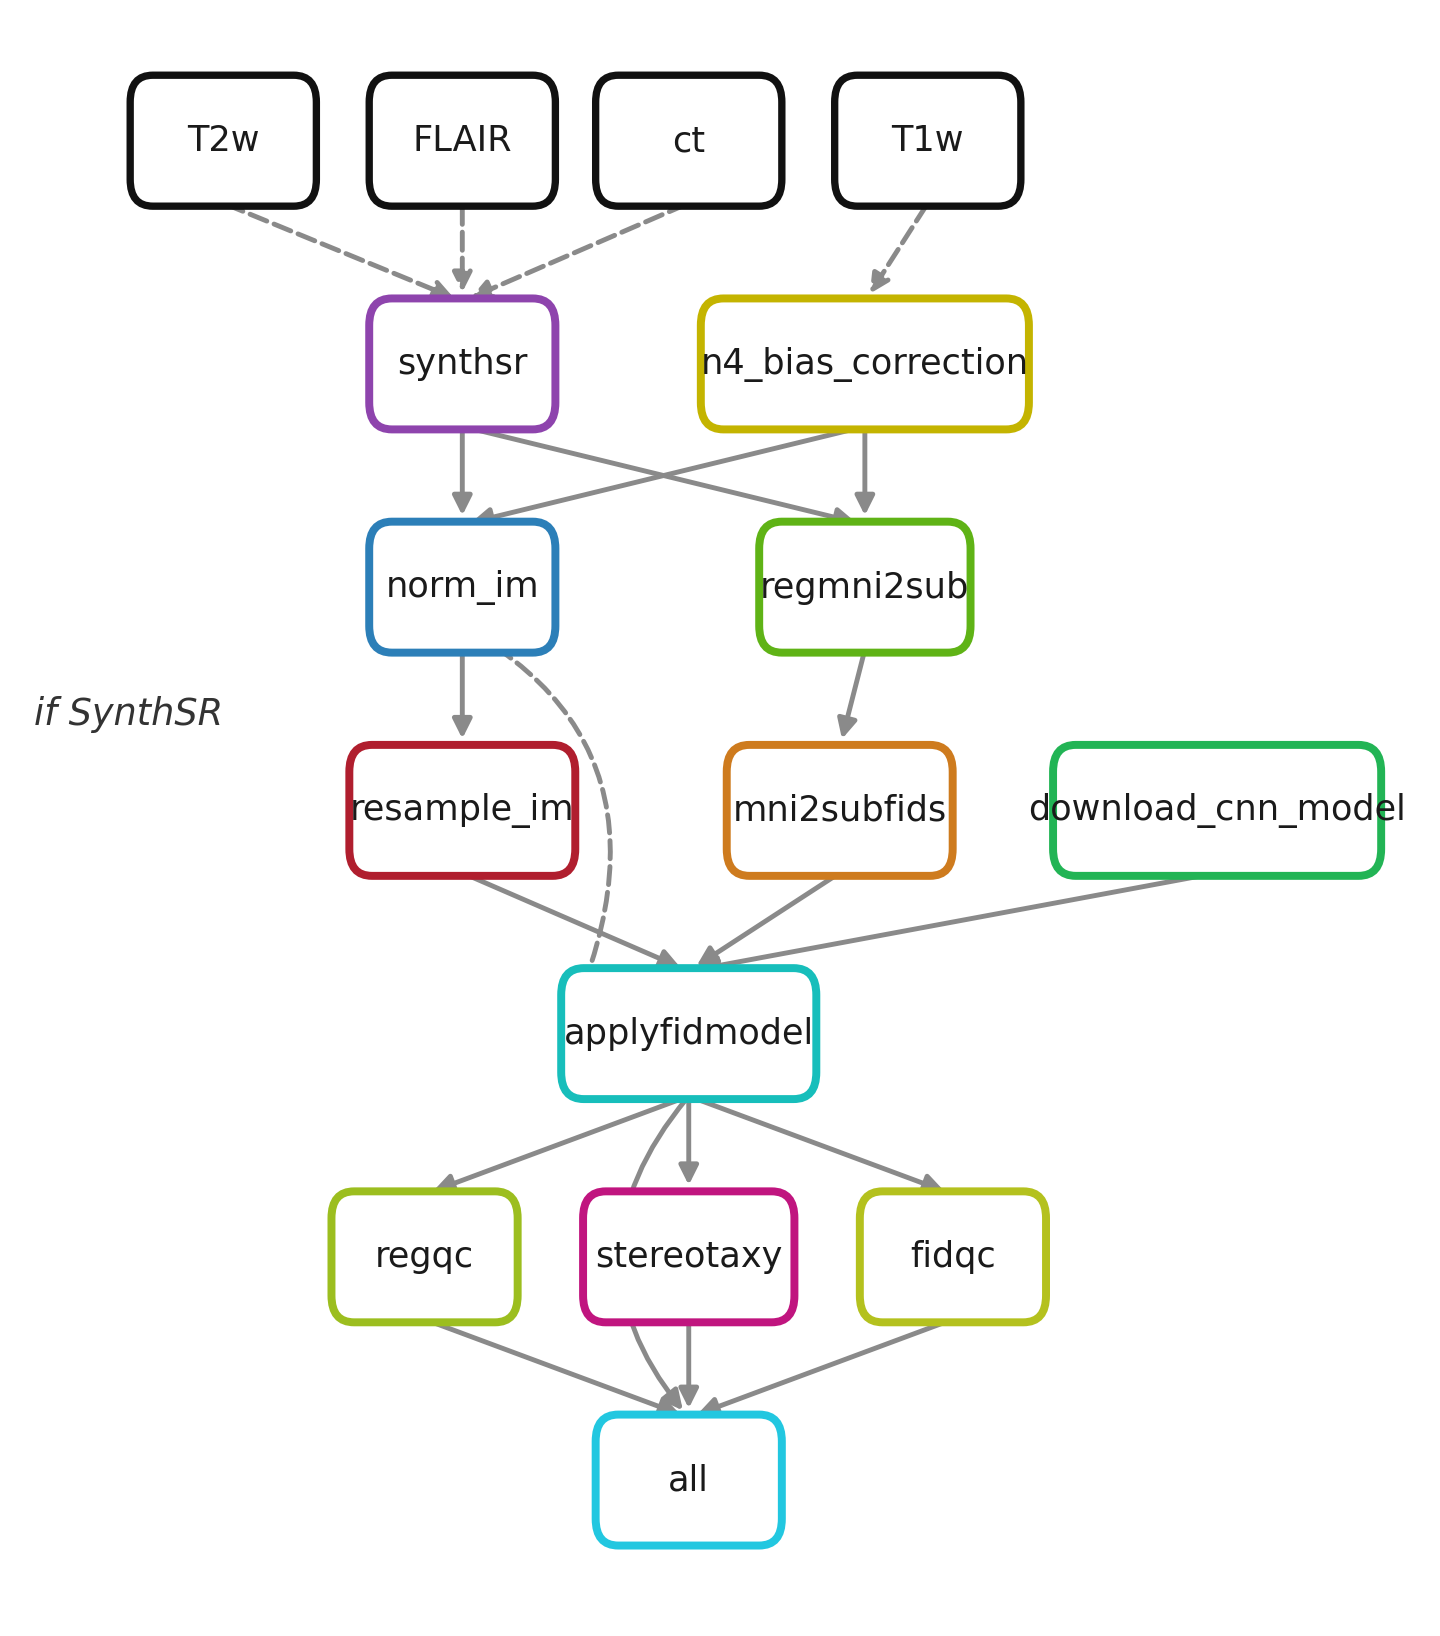
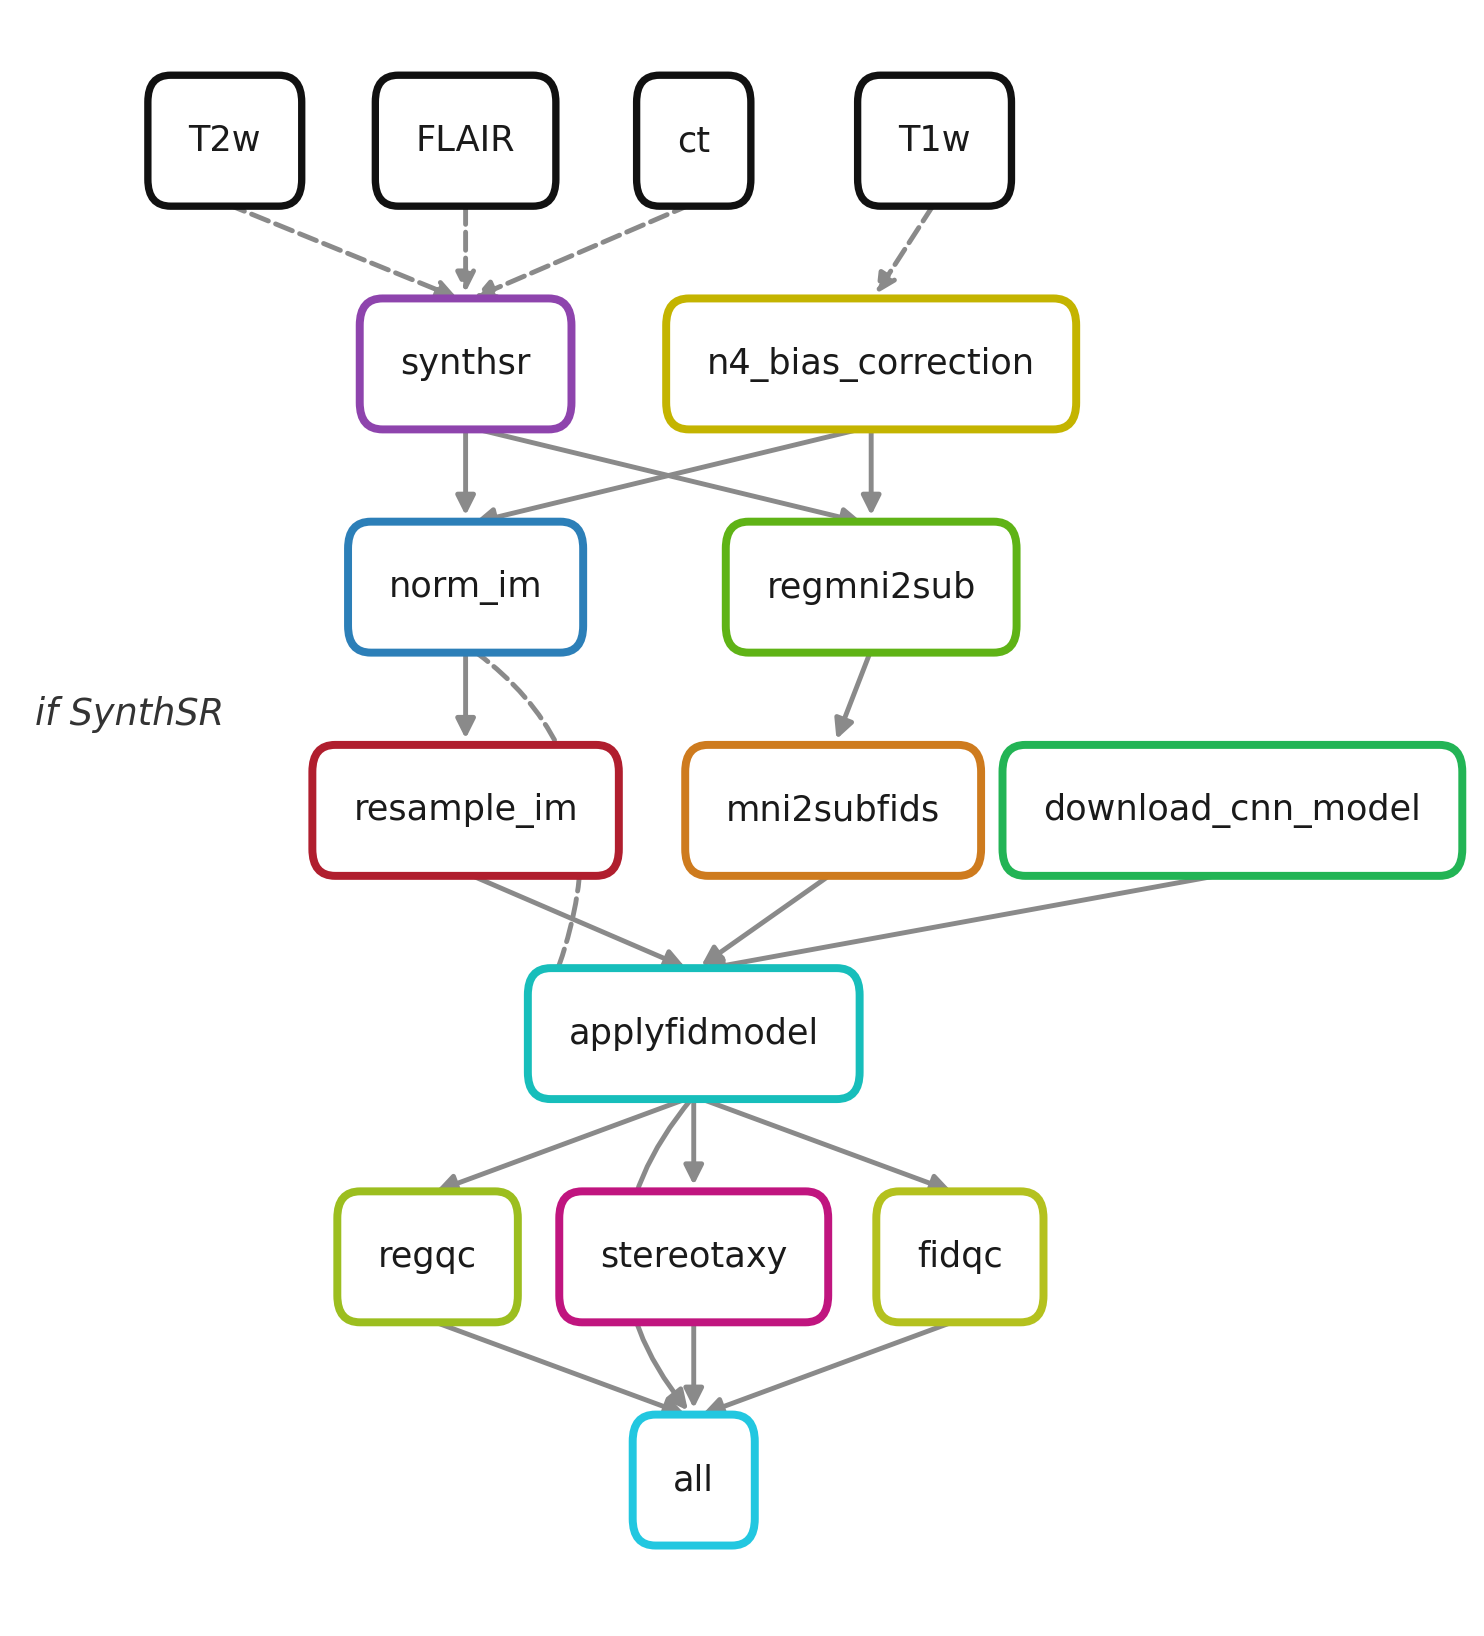
docs: size DAG boxes to rendered label width to fix overspill
Measure each label's actual rendered extent and size its box to fit
(plus padding), and disable patch clipping so no box is cut at the axes
edge. Fixes text spilling out of the resample_im / mni2subfids /
download_cnn_model boxes.

diff --git a/docs/images/make_dag.py b/docs/images/make_dag.py
@@ -28,8 +28,8 @@ NODES = {
     "norm_im":           (3.2, 6.0, "#2C7FB8"),
     "regmni2sub":        (6.4, 6.0, "#5FB316"),
     "resample_im":       (3.2, 4.5, "#B01E2E"),
-    "mni2subfids":       (6.2, 4.5, "#CE7B1E"),
-    "download_cnn_model":(9.2, 4.5, "#22B455"),
+    "mni2subfids":       (6.1, 4.5, "#CE7B1E"),
+    "download_cnn_model":(9.25, 4.5, "#22B455"),
     "applyfidmodel":     (5.0, 3.0, "#17BEBB"),
     "regqc":             (2.9, 1.5, "#9CBE1F"),
     "stereotaxy":        (5.0, 1.5, "#C0157F"),
@@ -37,8 +37,8 @@ NODES = {
     "all":               (5.0, 0.0, "#22C7E0"),
 }
 
-# per-node half-width, sized to the label so text never overflows the box
-HALFW = {n: max(0.72, 0.24 + 0.058 * len(n)) for n in NODES}
+LABEL_FS = 11.5                    # label font size (pt)
+PAD_X = 0.30                       # horizontal padding each side (data units)
 
 INPUTS = {"T2w", "FLAIR", "ct", "T1w"}
 
@@ -68,10 +68,23 @@ EDGES = [
 BOX_H = 0.42                       # half-height in data units
 ARROW = "#8A8A8A"
 
-fig, ax = plt.subplots(figsize=(8.2, 9.4))
-ax.set_xlim(-0.3, 10.8)
+fig, ax = plt.subplots(figsize=(8.4, 9.4))
+ax.set_xlim(-0.3, 11.0)
 ax.set_ylim(-0.9, 9.8)
 ax.axis("off")
+
+# Measure the rendered width of every label so boxes are sized to the text
+# (never overflow), then remove the probes.
+fig.canvas.draw()
+inv = ax.transData.inverted()
+HALFW = {}
+for name, (x, y, _) in NODES.items():
+    t = ax.text(x, y, name, ha="center", va="center", fontsize=LABEL_FS)
+    bb = t.get_window_extent(renderer=fig.canvas.get_renderer())
+    x0, _ = inv.transform((bb.x0, bb.y0))
+    x1, _ = inv.transform((bb.x1, bb.y1))
+    HALFW[name] = (x1 - x0) / 2.0 + PAD_X
+    t.remove()
 
 
 def anchor(node, side):
@@ -88,7 +101,7 @@ def draw_edge(src, dst, style, rad=0.0):
         p0, p1, connectionstyle=f"arc3,rad={rad}",
         arrowstyle="-|>", mutation_scale=13, lw=1.6,
         color=ARROW, linestyle=style, shrinkA=1, shrinkB=3,
-        zorder=1, capstyle="round"))
+        zorder=1, capstyle="round", clip_on=False))
 
 
 # straight edges
@@ -104,7 +117,7 @@ p1 = anchor("applyfidmodel", "left")
 ax.add_patch(FancyArrowPatch(
     p0, p1, connectionstyle="arc3,rad=-0.55", arrowstyle="-|>",
     mutation_scale=13, lw=1.6, color=ARROW, linestyle="dashed",
-    shrinkA=3, shrinkB=3, zorder=1, capstyle="round"))
+    shrinkA=3, shrinkB=3, zorder=1, capstyle="round", clip_on=False))
 ax.text(0.55, 5.15, "if SynthSR", fontsize=12, style="italic",
         color="#333333", ha="center", va="center")
 
@@ -115,9 +128,10 @@ for name, (x, y, ec) in NODES.items():
     ax.add_patch(FancyBboxPatch(
         (x - w, y - BOX_H), 2 * w, 2 * BOX_H,
         boxstyle="round,pad=0.02,rounding_size=0.18",
-        mutation_aspect=1.0, fc="white", ec=ec, lw=lw, zorder=2))
+        mutation_aspect=1.0, fc="white", ec=ec, lw=lw, zorder=2,
+        clip_on=False))
     ax.text(x, y, name, ha="center", va="center", zorder=3,
-            fontsize=11.5, color="#1a1a1a", family="sans-serif")
+            fontsize=LABEL_FS, color="#1a1a1a", family="sans-serif")
 
 fig.savefig(OUT, dpi=220, bbox_inches="tight", facecolor="white")
 print(f"wrote {OUT}")
